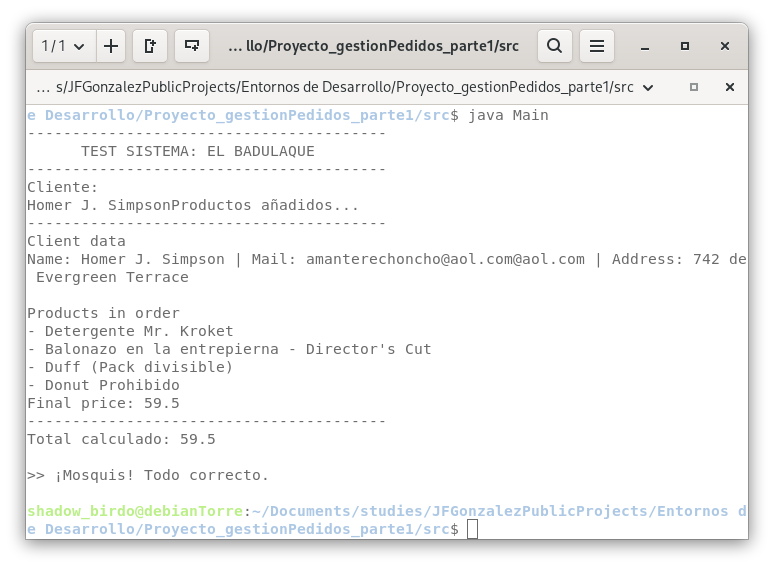
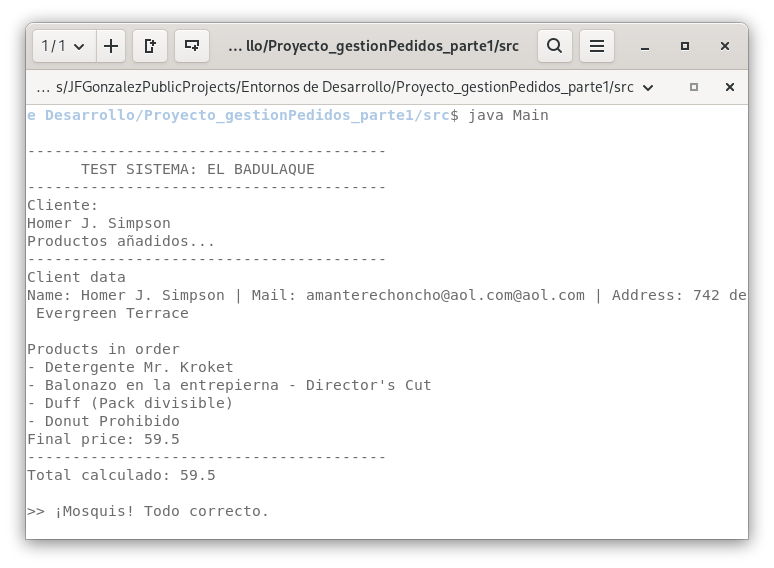
Pequeño arreglo en la clase Main

diff --git a/Entornos de Desarrollo/Proyecto_gestionPedidos_parte1/src/Main.java b/Entornos de Desarrollo/Proyecto_gestionPedidos_parte1/src/Main.java
@@ -13,7 +13,7 @@ public class Main {
             "742 de Evergreen Terrace"
         );
         
-        outputMsg += "Cliente:\n" + homer.getName();
+        outputMsg += "Cliente:\n" + homer.getName() + "\n";
 
         
         // 2. Productos
